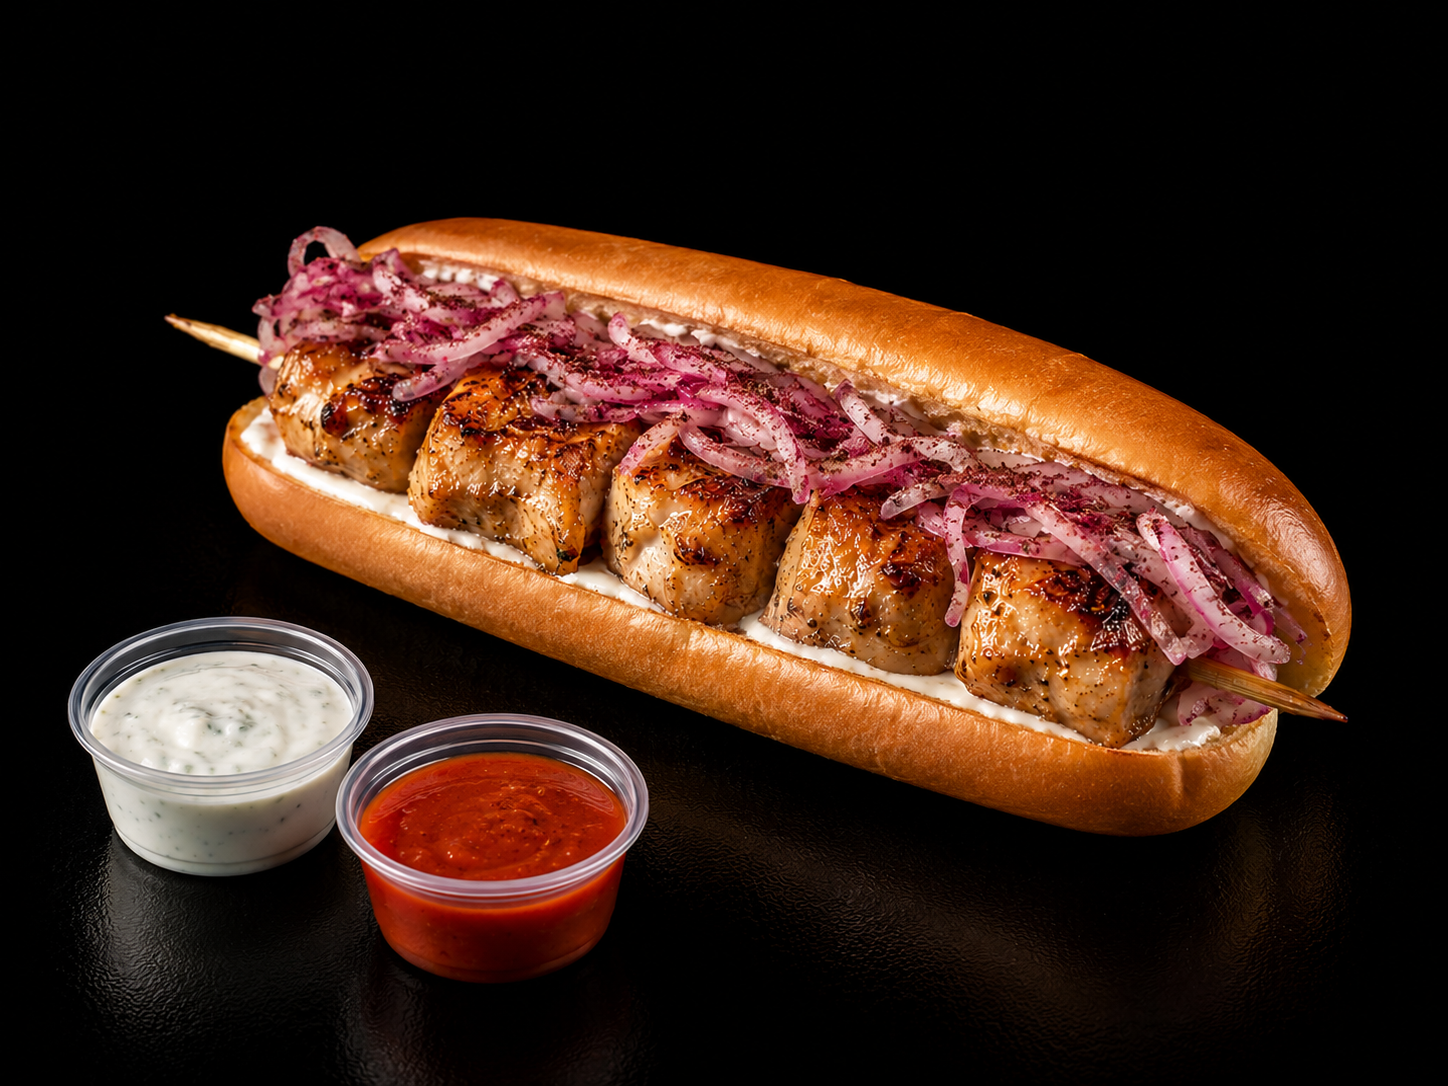
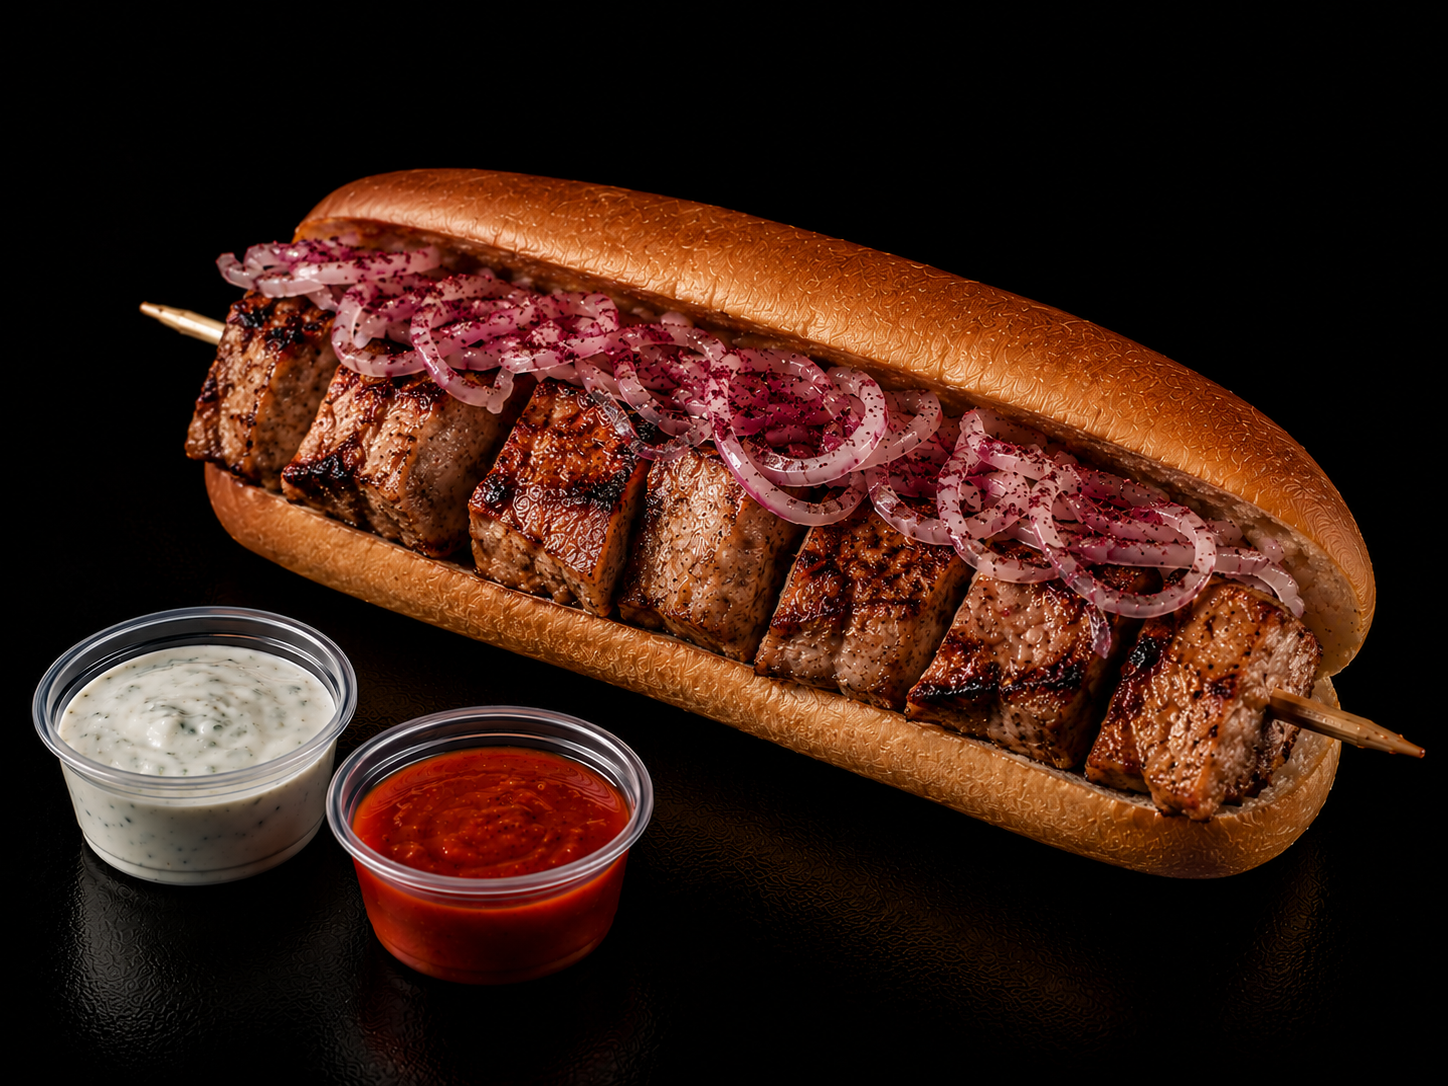
Update grill kebab menu images for chicken and pork.
Use KUR_kebab_bread for chicken shashlik and refresh pork_kebab_bread with cache-busted URLs.

diff --git a/food/app.js b/food/app.js
@@ -505,7 +505,7 @@ const MENU_ITEMS = [
     price: 110000,
     grammage: "120 г",
     category: "grill",
-    image: IMG("pork_kebab_bread.png?v=20250621-01"),
+    image: IMG("KUR_kebab_bread.png?v=20250624-01"),
   },
   {
     id: "pork-kebab",
@@ -514,7 +514,7 @@ const MENU_ITEMS = [
     price: 120000,
     grammage: "120 г",
     category: "grill",
-    image: IMG("pork_kebab_bread.png?v=20250621-01"),
+    image: IMG("pork_kebab_bread.png?v=20250624-01"),
   },
   {
     id: "chicken-wings",
